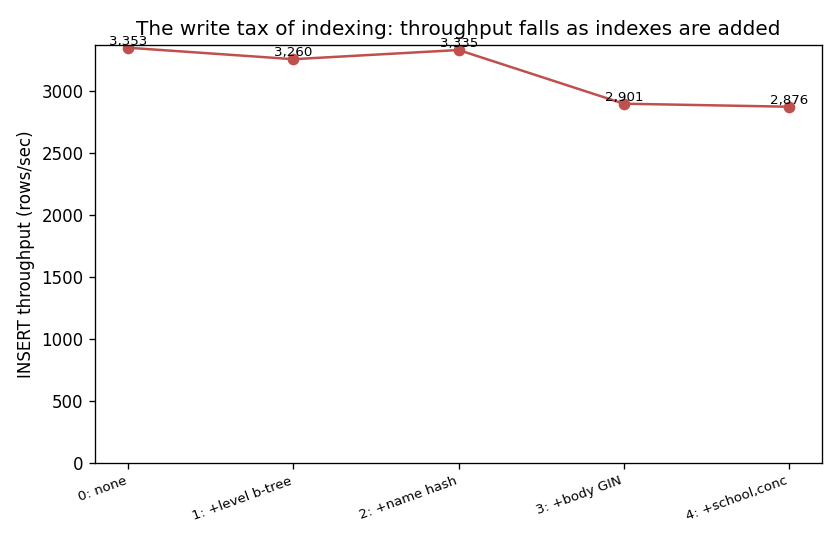
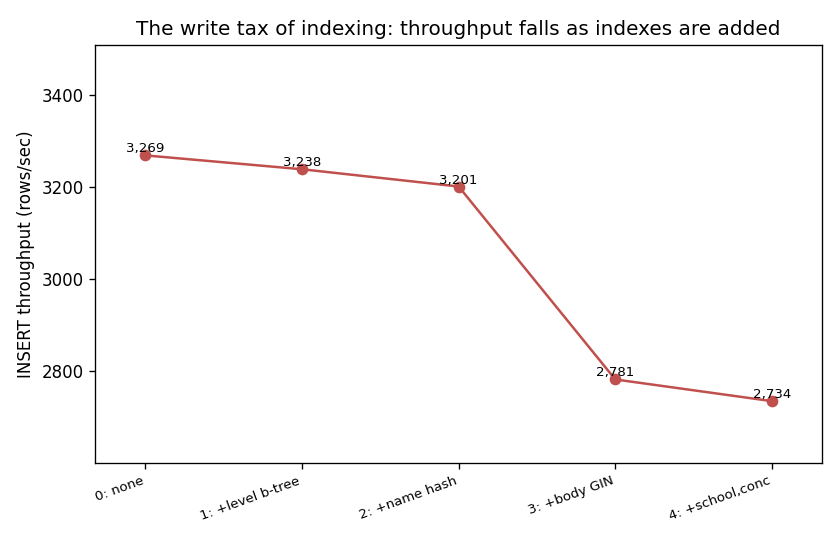
Updated write_tradeoff.png

diff --git a/src/bench_write.py b/src/bench_write.py
@@ -30,6 +30,7 @@ Outputs:
 Run:  python src/bench_write.py        (after `make load inflate`)
 """
 from __future__ import annotations
+import argparse
 import csv
 import statistics
 import time
@@ -91,8 +92,9 @@ def bulk_insert(cur, base_id: int, n: int, source: str, level_sql: str) -> None:
 # --------------------------------------------------------------------------- #
 # B1  write / read trade-off
 # --------------------------------------------------------------------------- #
-def b1_write_tradeoff(n_insert: int = 50000) -> list[dict]:
-    print(f"\n== B1: INSERT throughput vs index count ({n_insert:,} rows/stage) ==")
+def b1_write_tradeoff(n_insert: int = 50000, trials: int = 5) -> list[dict]:
+    print(f"\n== B1: INSERT throughput vs index count "
+          f"({n_insert:,} rows/stage, median of {trials}) ==")
     out: list[dict] = []
     with connect(autocommit=False) as conn, conn.cursor() as cur:
         base_id = base_template_id(cur)
@@ -104,20 +106,23 @@ def b1_write_tradeoff(n_insert: int = 50000) -> list[dict]:
             applied += stmts
             conn.commit()
 
-            t0 = time.perf_counter()
-            bulk_insert(cur, base_id, n_insert, "WRITE_TEST", "(g %% 10)::smallint")
-            conn.commit()
-            elapsed = time.perf_counter() - t0
+            # repeat the insert+reset cycle so the reported rate is a median, not a single
+            # noisy timing -- index maintenance below the GIN step is small enough that one
+            # un-replicated run can order the cheap stages arbitrarily.
+            rates: list[float] = []
+            for _ in range(trials):
+                t0 = time.perf_counter()
+                bulk_insert(cur, base_id, n_insert, "WRITE_TEST", "(g %% 10)::smallint")
+                conn.commit()
+                rates.append(n_insert / (time.perf_counter() - t0))
+                cur.execute("DELETE FROM spell WHERE source = 'WRITE_TEST'")
+                conn.commit()
+            rps = statistics.median(rates)
 
             out.append({"stage": label, "n_indexes": len(applied), "rows": n_insert,
-                        "total_s": round(elapsed, 3),
-                        "rows_per_sec": round(n_insert / elapsed, 1),
-                        "us_per_row": round(elapsed / n_insert * 1e6, 2)})
-            print(f"  {label:<18} {n_insert/elapsed:9.1f} rows/s  "
-                  f"({elapsed/n_insert*1e6:7.2f} us/row)")
-
-            cur.execute("DELETE FROM spell WHERE source = 'WRITE_TEST'")
-            conn.commit()
+                        "rows_per_sec": round(rps, 1),
+                        "us_per_row": round(1e6 / rps, 2)})
+            print(f"  {label:<18} {rps:9.1f} rows/s  ({1e6/rps:7.2f} us/row)")
         drop_secondary(cur); conn.commit()
 
     base = out[0]["rows_per_sec"]
@@ -299,8 +304,69 @@ conservatively, and schedule `ANALYZE`/`VACUUM` to keep statistics fresh and blo
     (RESULTS / "realtime.md").write_text(md)
 
 
+def chart_write_tradeoff(b1: list[dict]) -> None:
+    """Write throughput vs index count. A line chart, so the y-axis is zoomed to the data
+    range (not anchored at 0) -- the interesting variation is a few hundred rows/sec and
+    would be invisible squashed against the top of a 0-based axis."""
+    fig, ax = plt.subplots(figsize=(7, 4.5))
+    labels = [r["stage"] for r in b1]
+    rps = [r["rows_per_sec"] for r in b1]
+    ax.plot(range(len(labels)), rps, "o-", color="#c0504d")
+    ax.set_xticks(range(len(labels)))
+    ax.set_xticklabels(labels, rotation=20, ha="right", fontsize=8)
+    ax.set_ylabel("INSERT throughput (rows/sec)")
+
+    lo, hi = min(rps), max(rps)
+    pad = (hi - lo) * 0.25 if hi > lo else hi * 0.02
+    ax.set_ylim(lo - pad, hi + pad * 1.8)        # extra top headroom for the value labels
+    ax.margins(x=0.08)
+
+    ax.set_title("The write tax of indexing: throughput falls as indexes are added")
+    for i, v in enumerate(rps):
+        ax.text(i, v, f"{v:,.0f}", ha="center", va="bottom", fontsize=8)
+    fig.tight_layout(); fig.savefig(RESULTS / "write_tradeoff.png", dpi=120); plt.close(fig)
+
+
+def chart_bloat(b2: list[dict]) -> None:
+    """Table size (bars) + full-scan time (line) across clean / bloated / vacuumed."""
+    fig, ax = plt.subplots(figsize=(7, 4.5))
+    states = [r["state"] for r in b2]
+    sizes = [r["size_mb"] for r in b2]
+    scans = [r["scan_ms"] for r in b2]
+    x = range(len(states))
+    ax.bar(x, sizes, color="#4f81bd", label="table size (MB)")
+    ax.set_xticks(list(x)); ax.set_xticklabels(states, fontsize=8)
+    ax.set_ylabel("table size (MB)")
+    ax2 = ax.twinx()
+    ax2.plot(x, scans, "o-", color="#c0504d", label="full-scan ms")
+    ax2.set_ylabel("full-scan time (ms)", color="#c0504d")
+    ax.set_title("MVCC bloat from real-time edits, reclaimed by VACUUM")
+    fig.tight_layout(); fig.savefig(RESULTS / "bloat.png", dpi=120); plt.close(fig)
+
+
+def _read_csv(name: str) -> list[dict]:
+    def num(v):
+        try:
+            return float(v)
+        except (TypeError, ValueError):
+            return v
+    with open(RESULTS / name) as fh:
+        return [{k: num(v) for k, v in row.items()} for row in csv.DictReader(fh)]
+
+
 def main() -> int:
+    ap = argparse.ArgumentParser()
+    ap.add_argument("--charts-only", action="store_true",
+                    help="rebuild charts from the existing results CSVs (no DB work)")
+    args = ap.parse_args()
     RESULTS.mkdir(exist_ok=True)
+
+    if args.charts_only:
+        chart_write_tradeoff(_read_csv("write_tradeoff.csv"))
+        chart_bloat(_read_csv("bloat.csv"))
+        print("rebuilt write_tradeoff.png, bloat.png from existing CSVs")
+        return 0
+
     b1 = b1_write_tradeoff()
     b2 = b2_bloat()
     b3 = b3_stale_stats()
@@ -314,33 +380,8 @@ def main() -> int:
     with open(RESULTS / "stale_stats.csv", "w", newline="") as fh:
         w = csv.DictWriter(fh, fieldnames=list(b3[0].keys())); w.writeheader(); w.writerows(b3)
 
-    # chart 1: write throughput vs index count
-    fig, ax = plt.subplots(figsize=(7, 4.5))
-    labels = [r["stage"] for r in b1]; rps = [r["rows_per_sec"] for r in b1]
-    ax.plot(range(len(labels)), rps, "o-", color="#c0504d")
-    ax.set_xticks(range(len(labels))); ax.set_xticklabels(labels, rotation=20, ha="right",
-                                                          fontsize=8)
-    ax.set_ylabel("INSERT throughput (rows/sec)")
-    ax.set_ylim(bottom=0)
-    ax.set_title("The write tax of indexing: throughput falls as indexes are added")
-    for i, v in enumerate(rps):
-        ax.text(i, v, f"{v:,.0f}", ha="center", va="bottom", fontsize=8)
-    fig.tight_layout(); fig.savefig(RESULTS / "write_tradeoff.png", dpi=120); plt.close(fig)
-
-    # chart 2: bloat (size + scan time) clean / bloated / vacuumed
-    fig, ax = plt.subplots(figsize=(7, 4.5))
-    states = [r["state"] for r in b2]; sizes = [r["size_mb"] for r in b2]
-    scans = [r["scan_ms"] for r in b2]
-    x = range(len(states))
-    ax.bar(x, sizes, color="#4f81bd", label="table size (MB)")
-    ax.set_xticks(list(x)); ax.set_xticklabels(states, fontsize=8)
-    ax.set_ylabel("table size (MB)")
-    ax2 = ax.twinx()
-    ax2.plot(x, scans, "o-", color="#c0504d", label="full-scan ms")
-    ax2.set_ylabel("full-scan time (ms)", color="#c0504d")
-    ax.set_title("MVCC bloat from real-time edits, reclaimed by VACUUM")
-    fig.tight_layout(); fig.savefig(RESULTS / "bloat.png", dpi=120); plt.close(fig)
-
+    chart_write_tradeoff(b1)
+    chart_bloat(b2)
     write_report(b1, b2, b3)
     print(f"\nwrote {RESULTS/'realtime.md'}, write_tradeoff.{{csv,png}}, bloat.{{csv,png}}, "
           f"stale_stats.csv")

diff --git a/results/realtime.md b/results/realtime.md
@@ -1,41 +1,55 @@
 # Real-time data and its challenges
 
-The read benchmark studies a *static* ruleset. A live DM agent also mutates game state in real time, where the same indexes that accelerate reads must be maintained on every write and where PostgreSQL's MVCC storage leaves work behind. These three measurements quantify challenges the static study cannot show. Write workloads run server-side so the numbers reflect database work, not client round-trips.
+The read benchmark studies a *static* ruleset. A live DM agent also mutates game state in
+real time, where the same indexes that accelerate reads must be maintained on every write
+and where PostgreSQL's MVCC storage leaves work behind. These three measurements quantify
+challenges the static study cannot show. Write workloads run server-side so the numbers
+reflect database work, not client round-trips.
 
 ## B1 - The write/read trade-off: every read index is a write tax
 
 Bulk-inserting 50,000 rows under a growing set of indexes. Each index must be
-updated on every insert, so throughput falls as indexes are added; the GIN full-text index is by far the most expensive to maintain.
+updated on every insert, so throughput falls as indexes are added; the GIN full-text index
+is by far the most expensive to maintain.
 
 | index stage      |   # idx |   rows/sec |   us/row | slowdown   |
 |------------------|---------|------------|----------|------------|
-| 0: none          |       0 |     3353   |   298.24 | 1.0x       |
-| 1: +level b-tree |       1 |     3260.5 |   306.71 | 1.03x      |
-| 2: +name hash    |       2 |     3334.7 |   299.87 | 1.01x      |
-| 3: +body GIN     |       3 |     2900.8 |   344.73 | 1.16x      |
-| 4: +school,conc  |       5 |     2876.3 |   347.67 | 1.17x      |
+| 0: none          |       0 |     3268.7 |   305.94 | 1.0x       |
+| 1: +level b-tree |       1 |     3238.5 |   308.78 | 1.01x      |
+| 2: +name hash    |       2 |     3201   |   312.4  | 1.02x      |
+| 3: +body GIN     |       3 |     2781.2 |   359.56 | 1.18x      |
+| 4: +school,conc  |       5 |     2734   |   365.76 | 1.2x       |
 
 ## B2 - MVCC churn and bloat: the cost of real-time edits
 
-PostgreSQL never overwrites a row in place: an `UPDATE` writes a new version and tombstones the old one. Under continuous edits the table bloats with dead tuples and full scans slow down, until `VACUUM` reclaims the space. (Autovacuum was disabled here to make the effect visible; in production it runs continuously precisely to prevent this.)
+PostgreSQL never overwrites a row in place: an `UPDATE` writes a new version and tombstones
+the old one. Under continuous edits the table bloats with dead tuples and full scans slow
+down, until `VACUUM` reclaims the space. (Autovacuum was disabled here to make the effect
+visible; in production it runs continuously precisely to prevent this.)
 
 | table state               |   size_MB |   full-scan_ms |   dead_tuples |
 |---------------------------|-----------|----------------|---------------|
-| clean (after VACUUM FULL) |    148.7  |         17.114 |               |
-| bloated (6 updates)       |    863.8  |         93.644 |        601234 |
-| after VACUUM FULL         |    145.59 |         17.096 |               |
+| clean (after VACUUM FULL) |    146.23 |         17.6   |               |
+| bloated (6 updates)       |    877.1  |        104.587 |        599150 |
+| after VACUUM FULL         |    145.55 |         16.357 |               |
 
-The 601,234 dead tuples grew the table ~5.8x and slowed a full scan accordingly; `VACUUM FULL` returned it to the clean baseline.
+The 599,150 dead tuples grew the table ~6.0x and slowed a full scan accordingly;
+`VACUUM FULL` returned it to the clean baseline.
 
 ## B3 - Stale statistics: real-time drift fools the optimizer
 
-A burst of inserts shifts the `level` distribution. Until `ANALYZE` re-runs, the planner's cached statistics are stale, so it badly mis-estimates how many rows match `level >= 8` -- which is exactly the input it uses to choose a plan.
+A burst of inserts shifts the `level` distribution. Until `ANALYZE` re-runs, the planner's
+cached statistics are stale, so it badly mis-estimates how many rows match `level >= 8` --
+which is exactly the input it uses to choose a plan.
 
-| statistics state            | plan              |   est rows |   actual rows | est error   |
-|-----------------------------|-------------------|------------|---------------|-------------|
-| after burst, stale stats    | Bitmap Index Scan |       9147 |         68592 | 7.5x        |
-| after ANALYZE (fresh stats) | Bitmap Index Scan |      68912 |         68592 | 1.0x        |
+| statistics state            | plan       |   est rows |   actual rows | est error   |
+|-----------------------------|------------|------------|---------------|-------------|
+| after burst, stale stats    | Index Scan |       8869 |         68380 | 7.7x        |
+| after ANALYZE (fresh stats) | Index Scan |      67472 |         68380 | 1.0x        |
 
 ## Design conclusion
 
-Reads and writes pull in opposite directions, so a real-time system should index its two data populations asymmetrically: index the large, near-static ruleset aggressively (reads dominate; writes are rare bulk loads), but index fast-mutating game state conservatively, and schedule `ANALYZE`/`VACUUM` to keep statistics fresh and bloat bounded.
+Reads and writes pull in opposite directions, so a real-time system should index its two
+data populations **asymmetrically**: index the large, near-static **ruleset** aggressively
+(reads dominate; writes are rare bulk loads), but index fast-mutating **game state**
+conservatively, and schedule `ANALYZE`/`VACUUM` to keep statistics fresh and bloat bounded.

diff --git a/README.md b/README.md
@@ -58,11 +58,11 @@ _ASCII Graph Generated with Claude Sonnet 4.6_
             └────────────────────────────┘      │ 10K / 100K / 1M rows           │
                             ▲                   └───────────────┬────────────────┘
         sql/treatments.sql  │                                   ▼
-        (T0->T5 index sets)  │      ┌────────────────────────────────────────────────────┐
+        (T0->T5 index sets) │      ┌────────────────────────────────────────────────────┐
                             └─────▶│  READ framework         │  REAL-TIME framework     │
                                    │  bench.py               │  bench_write.py          │
                                    │  • treatment×query      │  • B1 write tax vs #idx  │
-                                   │    EXPLAIN(ANALYZE,     │  • B2 MVCC bloat->VACUUM  │
+                                   │    EXPLAIN(ANALYZE,     │  • B2 MVCC bloat->VACUUM │
                                    │    BUFFERS) matrix      │  • B3 stale statistics   │
                                    │  • hot-path p50/p95/p99 │                          │
                                    │  • index build+size     │  bench_scale.py          │